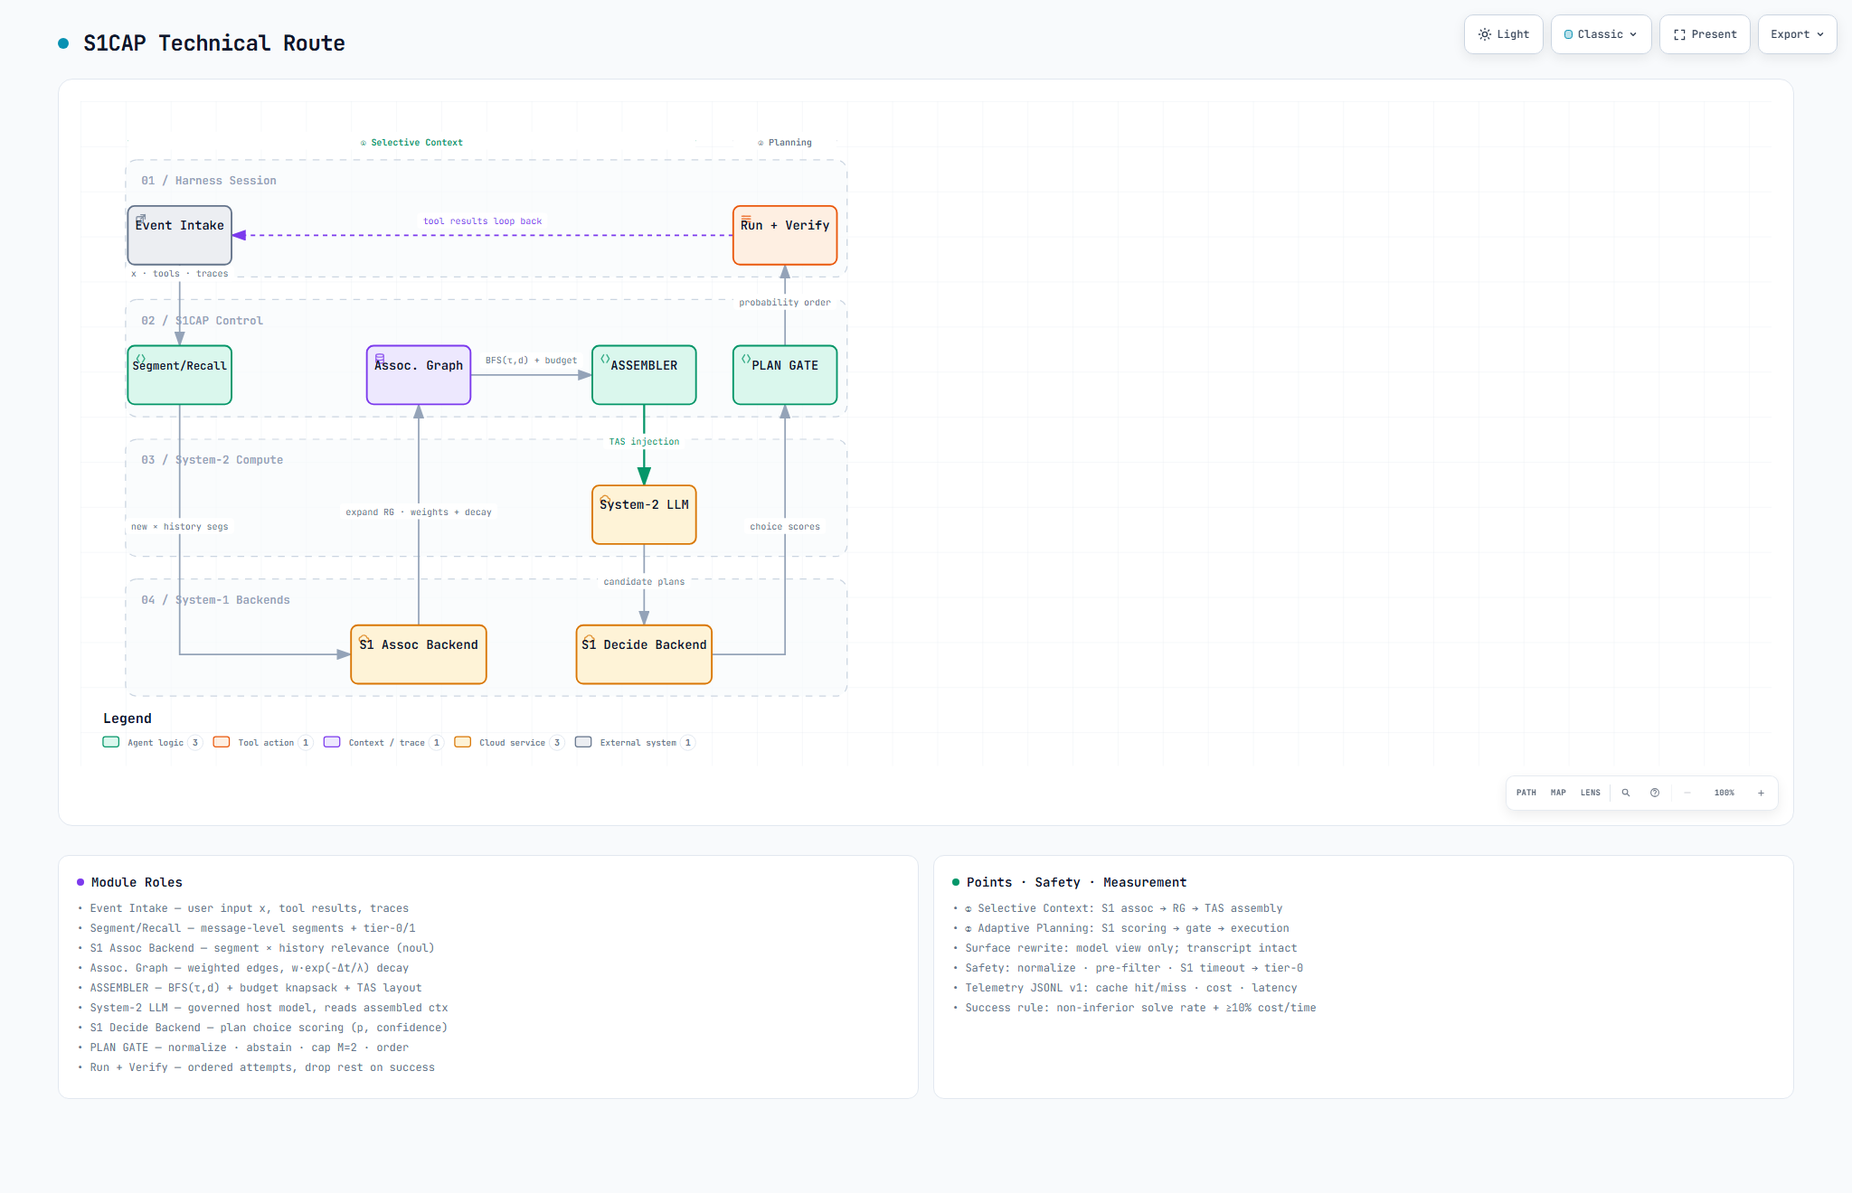
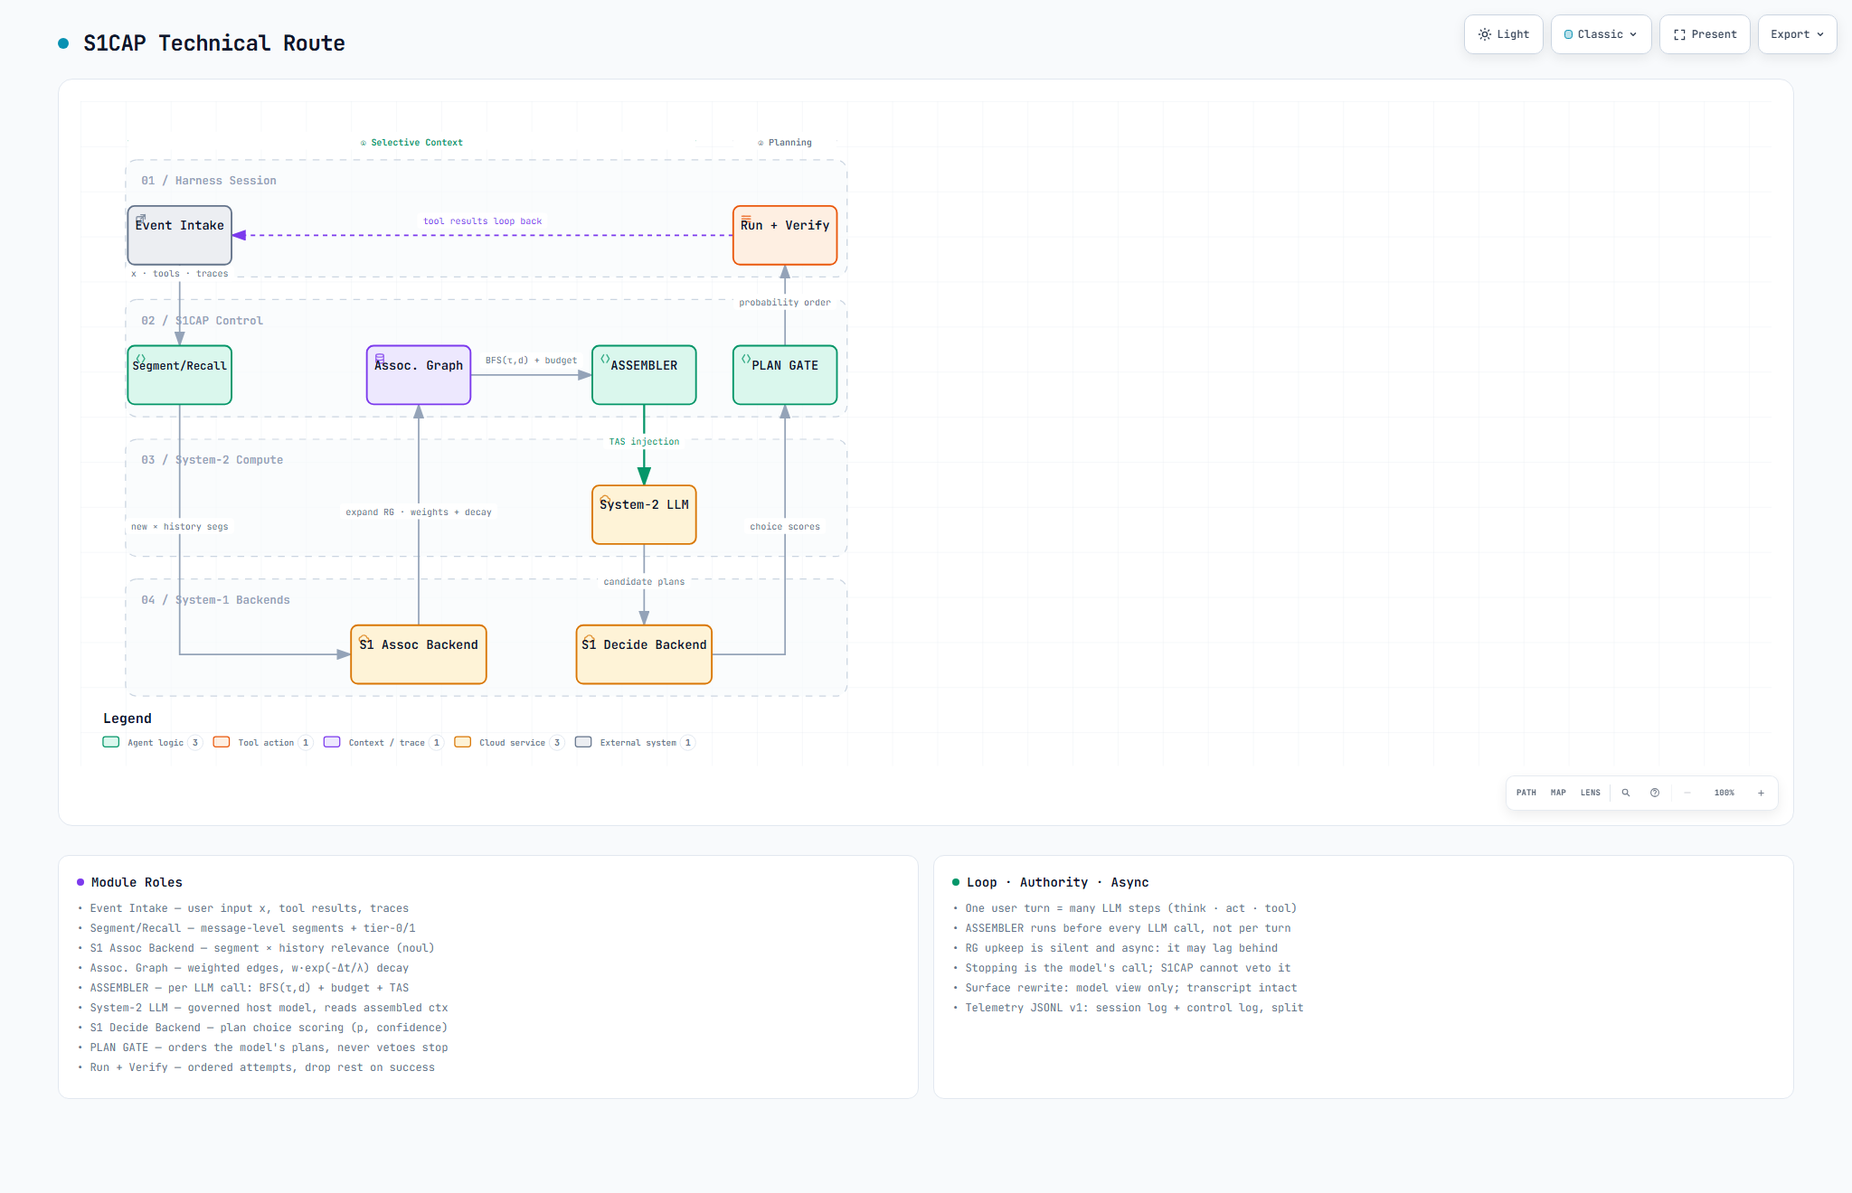
docs(diagram): model the agent loop as a loop with a hook, not a chain
The route diagram now separates three things that the previous serial reading blurred:
- one user turn = many LLM steps, so ASSEMBLER runs before EVERY LLM call (per-call hook)
- RG upkeep is asynchronous and may lag (dashed off-path edges), while the assembly read is
  synchronous and bounded by assemblyDeadlineMs
- stopping belongs to the model: no S1CAP output can prolong or veto the exit

- docs/figures/s1cap-technical-route.mmd rewritten as the canonical topology; the same Mermaid
  is embedded in README.md, docs/ARCHITECTURE.md and docs/AGENT_BRIEF.md
- docs/ARCHITECTURE.md gains section 6 (loop, authority, asynchrony)
- AGENT_BRIEF ground rule 7; AssemblyPolicy gains literal-typed invariants (termination:
  'model-owned', rgMaintenance: { mode: 'async', maxLagTurns }) plus assemblyDeadlineMs, and
  AttemptController gains stop() so the harness registers a model stop without asking S1CAP
- new tests (44/44): gate cannot invent plans, empty plan list stays empty, controller stops at
  the cap / at the end of the model list / on a model stop; policy literals hold in every cell
- archify artifact re-delivered with corrected cards (Loop · Authority · Async, PLAN GATE now
  reads 'orders the model's plans, never vetoes stop'): 9/9 checks, 0 errors, visual-check pass

Note: the delivered SVG could not yet carry the loop topology itself - six layout variants were
rejected by the showcase geometry checks (endpoint-side direction, micro-segments, label
[…]

diff --git a/packages/core/test/authority.test.ts b/packages/core/test/authority.test.ts
@@ -1,0 +1,74 @@
+import test from 'node:test';
+import assert from 'node:assert/strict';
+
+import { cellPolicy, defaultPolicy } from '../src/types.ts';
+import type { Cell } from '../src/types.ts';
+import { AttemptController, orderPlans } from '../src/plan-gate.ts';
+
+const CELLS: Cell[] = ['C1', 'C2', 'C3', 'C4'];
+
+test('the loop is model-owned and the hook is bounded, in every cell (policy literals)', () => {
+  const p = defaultPolicy();
+  assert.equal(p.termination, 'model-owned');
+  assert.equal(p.rgMaintenance.mode, 'async');
+  assert.ok(p.assemblyDeadlineMs > 0 && p.assemblyDeadlineMs <= 2000, 'the sync hook needs a hard deadline');
+
+  for (const cell of CELLS) {
+    const cp = cellPolicy(cell);
+    assert.equal(cp.termination, 'model-owned', `${cell}: S1CAP never owns termination`);
+    assert.equal(cp.rgMaintenance.mode, 'async', `${cell}: graph upkeep stays off the critical path`);
+    assert.ok(cp.rgMaintenance.maxLagTurns >= 0);
+  }
+});
+
+test('the gate never invents a plan: an empty model plan list stays empty', () => {
+  const decision = orderPlans([], [], 0.5);
+  assert.deepEqual(decision.order, []);
+  assert.equal(decision.abstained, true, 'nothing to order means: keep the model order (nothing)');
+});
+
+test('the gate only reorders what the model produced', () => {
+  const plans = [{ id: 'a' }, { id: 'b' }, { id: 'c' }];
+  const decision = orderPlans(
+    plans,
+    [
+      { id: 'b', prob: 0.7, confidence: 0.8 },
+      { id: 'a', prob: 0.2, confidence: 0.8 },
+      { id: 'c', prob: 0.1, confidence: 0.8 },
+    ],
+    0.5,
+  );
+  assert.deepEqual([...decision.order].sort(), ['a', 'b', 'c']);
+  assert.equal(decision.order[0], 'b');
+});
+
+test('the attempt controller stops at the cap, at the end of the model list, or on a model stop', () => {
+  const capped = new AttemptController(['a', 'b', 'c'], 2);
+  assert.equal(capped.next(), 'a');
+  capped.record('a', false);
+  assert.equal(capped.next(), 'b');
+  capped.record('b', false);
+  assert.equal(capped.next(), undefined, 'cap reached — the gate hands out nothing more');
+  assert.equal(capped.attempts, 2);
+  assert.deepEqual(capped.unexecuted(), ['c']);
+
+  const exhausted = new AttemptController(['a'], 5);
+  assert.equal(exhausted.next(), 'a');
+  exhausted.record('a', false);
+  assert.equal(exhausted.next(), undefined, 'the model offered one plan; S1CAP has nothing to add');
+
+  const empty = new AttemptController([], 3);
+  assert.equal(empty.next(), undefined);
+
+  const stopped = new AttemptController(['a', 'b'], 2);
+  stopped.stop();
+  assert.equal(stopped.next(), undefined, "the model's stop outranks remaining plans");
+  assert.deepEqual(stopped.unexecuted(), ['a', 'b']);
+
+  const won = new AttemptController(['a', 'b'], 2);
+  assert.equal(won.next(), 'a');
+  won.record('a', true);
+  assert.equal(won.next(), undefined, 'success ends the loop');
+  assert.equal(won.succeeded, 'a');
+  assert.deepEqual(won.unexecuted(), ['b']);
+});

diff --git a/docs/figures/s1cap-technical-route.html b/docs/figures/s1cap-technical-route.html
@@ -5418,10 +5418,10 @@
           <li>&bull; Segment/Recall — message-level segments + tier-0/1</li>
           <li>&bull; S1 Assoc Backend — segment × history relevance (noul)</li>
           <li>&bull; Assoc. Graph — weighted edges, w·exp(−Δt/λ) decay</li>
-          <li>&bull; ASSEMBLER — BFS(τ,d) + budget knapsack + TAS layout</li>
+          <li>&bull; ASSEMBLER — per LLM call: BFS(τ,d) + budget + TAS</li>
           <li>&bull; System-2 LLM — governed host model, reads assembled ctx</li>
           <li>&bull; S1 Decide Backend — plan choice scoring (p, confidence)</li>
-          <li>&bull; PLAN GATE — normalize · abstain · cap M=2 · order</li>
+          <li>&bull; PLAN GATE — orders the model&#39;s plans, never vetoes stop</li>
           <li>&bull; Run + Verify — ordered attempts, drop rest on success</li>
         </ul>
       </div>
@@ -5429,15 +5429,15 @@
       <div class="card">
         <div class="card-header">
           <div class="card-dot emerald"></div>
-          <h3>Points · Safety · Measurement</h3>
+          <h3>Loop · Authority · Async</h3>
         </div>
         <ul>
-          <li>&bull; ① Selective Context: S1 assoc → RG → TAS assembly</li>
-          <li>&bull; ② Adaptive Planning: S1 scoring → gate → execution</li>
+          <li>&bull; One user turn = many LLM steps (think · act · tool)</li>
+          <li>&bull; ASSEMBLER runs before every LLM call, not per turn</li>
+          <li>&bull; RG upkeep is silent and async: it may lag behind</li>
+          <li>&bull; Stopping is the model&#39;s call; S1CAP cannot veto it</li>
           <li>&bull; Surface rewrite: model view only; transcript intact</li>
-          <li>&bull; Safety: normalize · pre-filter · S1 timeout → tier-0</li>
-          <li>&bull; Telemetry JSONL v1: cache hit/miss · cost · latency</li>
-          <li>&bull; Success rule: non-inferior solve rate + ≥10% cost/time</li>
+          <li>&bull; Telemetry JSONL v1: session log + control log, split</li>
         </ul>
       </div>
     </div>

diff --git a/packages/core/src/types.ts b/packages/core/src/types.ts
@@ -51,6 +51,21 @@ export type S1ProviderName = 'jev' | 'laya-serve' | 'edgejev' | 'kev' | 'none';
 
 export interface AssemblyPolicy {
   cell: Cell;
+  /**
+   * Who owns the agent loop. Deliberately a literal type, not a boolean: the harness
+   * stops when the model stops, and no S1CAP output may prolong or veto that exit
+   * (docs/ARCHITECTURE.md §4). One user turn is many LLM steps; S1CAP only assembles
+   * the context before each call and orders the plans the model already offered.
+   */
+  termination: 'model-owned';
+  /** hard deadline for the synchronous per-call assembly hook; on expiry the call passes through unmodified */
+  assemblyDeadlineMs: number;
+  /**
+   * Association-graph upkeep is asynchronous: new session events are scored off the
+   * critical path by the S1 association backend and merged into the graph afterwards,
+   * so the graph may lag the session by up to `maxLagTurns` turns.
+   */
+  rgMaintenance: { mode: 'async'; maxLagTurns: number };
   tas: {
     on: boolean;
     /** max chars of the serialized state proxy T */
@@ -138,6 +153,9 @@ export interface PlanGateDecision {
 export function defaultPolicy(): AssemblyPolicy {
   return {
     cell: 'C4',
+    termination: 'model-owned',
+    assemblyDeadlineMs: 250,
+    rgMaintenance: { mode: 'async', maxLagTurns: 2 },
     tas: { on: true, tMaxChars: 8000, updatePolicy: 'perTask' },
     recall: {
       tau: 0.55,

diff --git a/packages/core/src/plan-gate.ts b/packages/core/src/plan-gate.ts
@@ -57,6 +57,11 @@ export function orderPlans(
 /**
  * Attempt controller: execute plans in order, verify each, stop on first success
  * or when the attempt cap M is reached.
+ *
+ * Authority note (docs/ARCHITECTURE.md §4): this controller only ever walks the plans the
+ * model produced. It cannot invent a plan, cannot exceed the cap, and cannot keep the loop
+ * alive — the harness stops the turn whenever the model says so, and `stop()` exists so the
+ * harness can register that decision without asking S1CAP.
  */
 export class AttemptController {
   #order: string[];
@@ -89,6 +94,14 @@ export class AttemptController {
       this.#succeeded = id;
       this.#stopped = true;
     }
+  }
+
+  /**
+   * The model (or the harness on its behalf) ended the turn. Recorded here so the gate
+   * cannot hand out another attempt; S1CAP never decides this and never delays it.
+   */
+  stop(): void {
+    this.#stopped = true;
   }
 
   get attempts(): number {

diff --git a/docs/ARCHITECTURE.md b/docs/ARCHITECTURE.md
@@ -13,20 +13,20 @@ Status legend: **✅ implemented (M0)** · **🔜 planned (M1/M2)** · **◻ ext
 
 ```mermaid
 flowchart LR
-  subgraph HAR["Harness session layer"]
-    XEV["Event intake<br/>user input x · tool results · reasoning traces"]
-    EXE["Run + verify<br/>ordered attempts, verification oracle"]
+  subgraph HAR["Harness session - one user turn = many LLM steps"]
+    X["User turn x<br/>user input · tool results · traces"]
+    TL["Run + verify<br/>tool exec · results · verification"]
+    ST["Stop - the model's own call<br/>S1CAP cannot veto or prolong it"]
   end
 
-  subgraph CTL["S1CAP control layer"]
-    SEG["Segment / Recall<br/>message-level segments, tier-0/1 candidates"]
-    RG["Association graph (RG)<br/>weighted edges, w·exp(-Δt/λ) decay"]
-    ASM["ASSEMBLER<br/>BFS(τ,d) recall + budget knapsack + TAS layout"]
-    GATE["PLAN GATE<br/>normalize · abstain · attempt cap M=2 · order"]
+  subgraph CTL["S1CAP control - hook, advisory"]
+    ASM["ASSEMBLER<br/>runs before every LLM call"]
+    RG["Association graph RG<br/>weights w·exp(-dt/lambda)"]
+    GATE["PLAN GATE<br/>orders plans the model gave"]
   end
 
   subgraph S2["System-2 compute plane"]
-    LLM["System-2 LLM<br/>governed host model (deepseek-flash)"]
+    LLM["System-2 LLM step<br/>think · act · call tools"]
   end
 
   subgraph S1["System-1 backends (POST /v1/systemone)"]
@@ -34,15 +34,17 @@ flowchart LR
     S1D["S1 decision backend<br/>choice scoring"]
   end
 
-  XEV -->|"x · tools · traces"| SEG
-  SEG -->|"new × history segments"| S1A
-  S1A -->|"expand RG · weights + decay"| RG
-  RG -->|"BFS(τ,d) + budget"| ASM
-  ASM -->|"TAS injection"| LLM
-  LLM -->|"candidate plans (m ≤ 3)"| S1D
-  S1D -->|"choice scores: p, confidence"| GATE
-  GATE -->|"probability order"| EXE
-  EXE -->|"tool results loop back"| XEV
+  X -->|"input x"| ASM
+  ASM -->|"assembled view (TAS) · per call"| LLM
+  LLM -->|"act · tool call"| TL
+  TL -.->|"next LLM step · model continues"| ASM
+  TL -->|"model stops"| ST
+  TL -.->|"new events · async tap, off the critical path"| S1A
+  S1A -.->|"weights + decay (may lag)"| RG
+  RG -->|"bounded recall + budget"| ASM
+  LLM -->|"candidate plans (when offered)"| S1D
+  S1D -->|"choice scores"| GATE
+  GATE -->|"advisory order · never vetoes stop"| TL
 ```
 
 ## 2. Connections (edge semantics)
@@ -89,5 +91,28 @@ flowchart LR
 | ASSEMBLER (TAS layout) | off (chronological) | **on** | off (chronological) | **on** |
 | S1 decision + PLAN GATE | off | off | **on** | **on** |
 | Telemetry | on | on | on | on |
+
+## 6. Loop, authority and asynchrony
+
+The diagram is a **loop with a hook**, not a serial pipeline. Three properties are part of the design and
+are enforced in code, not left to convention:
+
+1. **One user turn is many LLM steps.** The model thinks, acts, calls tools and continues as long as it
+   decides to. Consequently the ASSEMBLER runs **before every LLM call** (a per-call hook), not once per
+   turn, and the `Run + verify → ASSEMBLER` edge is the live loop edge (`next LLM step · model continues`).
+2. **Stopping belongs to the model.** The harness ends the turn when the model says so; `Stop · the model's
+   own call` is a harness node that no S1CAP output can veto or delay. The two guarantees in code:
+   `AssemblyPolicy.termination` is the literal type `'model-owned'` (there is no configuration that flips it),
+   and `AttemptController` walks only the plans the model produced — it cannot invent a plan, cannot exceed
+   the attempt cap, and `stop()` exists so the harness can register the model's decision without asking S1CAP.
+   An empty plan list yields an empty order.
+3. **Graph upkeep is asynchronous.** New session events are scored by the S1 association backend **off the
+   critical path** and merged into the RG afterwards (dashed edges `new events · async tap` and
+   `weights + decay (may lag)`); `rgMaintenance = { mode: 'async', maxLagTurns }`. The synchronous part is
+   only the assembly read (`bounded recall + budget`) and it carries a hard deadline:
+   `assemblyDeadlineMs` — on expiry the LLM call proceeds with the unmodified context instead of waiting.
+
+Degradation is therefore total: if Laya/Jev is slow, absent or wrong, the turn continues on the native path
+(tier-0 metadata + recency window), which is exactly the C1 behaviour the ablation compares against.
 
 Cell presets: `bench/cells/C{1..4}.json`.

diff --git a/docs/AGENT_BRIEF.md b/docs/AGENT_BRIEF.md
@@ -15,6 +15,7 @@
 4. The human owns the research decisions listed in §12. All other implementation decisions within this spec are yours.
 5. Telemetry schemas (§8) are **versioned contracts**: after the first benchmark run starts, changing a field name breaks comparability — add fields, never rename.
 6. **Control-plane isolation is a hard architectural rule** (docs/CONTROL_PLANE_LOGGING.md): System-1 calls, their telemetry and the backend's server logs go to a log stream that is *independent of the session event log*. No control-plane record may become a segment, enter the association graph, or appear in any LLM context or System-1 `state` — otherwise System-1 would end up scoring its own output and call count would compound per turn. Enforced in `packages/core/src/provenance.ts` (type families + runtime guards); do not relax it for convenience.
+7. **The agent loop is model-owned and S1CAP is only a hook** (docs/ARCHITECTURE.md §6). One user turn is *many* LLM steps (think → act → tool → …), so the flow is a loop, not a chain: S1CAP assembles context before **every** LLM call under a hard deadline (on expiry the call proceeds unmodified), and maintains the association graph **asynchronously, off the critical path** (the graph may lag the session). Nothing in S1CAP may keep the loop alive: the harness stops when the model stops, the plan gate only reorders the plans the model already produced, and any S1CAP failure or timeout degrades to passthrough. `termination: 'model-owned'` and `rgMaintenance.mode: 'async'` are literal types in `AssemblyPolicy` — not toggles.
 
 ---
 
@@ -100,20 +101,20 @@ Two planes:
 
 ```mermaid
 flowchart LR
-  subgraph HAR["Harness session layer"]
-    XEV["Event intake<br/>user input x · tool results · reasoning traces"]
-    EXE["Run + verify<br/>ordered attempts, verification oracle"]
+  subgraph HAR["Harness session - one user turn = many LLM steps"]
+    X["User turn x<br/>user input · tool results · traces"]
+    TL["Run + verify<br/>tool exec · results · verification"]
+    ST["Stop - the model's own call<br/>S1CAP cannot veto or prolong it"]
   end
 
-  subgraph CTL["S1CAP control layer"]
-    SEG["Segment / Recall<br/>message-level segments, tier-0/1 candidates"]
-    RG["Association graph (RG)<br/>weighted edges, w·exp(-Δt/λ) decay"]
-    ASM["ASSEMBLER<br/>BFS(τ,d) recall + budget knapsack + TAS layout"]
-    GATE["PLAN GATE<br/>normalize · abstain · attempt cap M=2 · order"]
+  subgraph CTL["S1CAP control - hook, advisory"]
+    ASM["ASSEMBLER<br/>runs before every LLM call"]
+    RG["Association graph RG<br/>weights w·exp(-dt/lambda)"]
+    GATE["PLAN GATE<br/>orders plans the model gave"]
   end
 
   subgraph S2["System-2 compute plane"]
-    LLM["System-2 LLM<br/>governed host model (deepseek-flash)"]
+    LLM["System-2 LLM step<br/>think · act · call tools"]
   end
 
   subgraph S1["System-1 backends (POST /v1/systemone)"]
@@ -121,15 +122,17 @@ flowchart LR
     S1D["S1 decision backend<br/>choice scoring"]
   end
 
-  XEV -->|"x · tools · traces"| SEG
-  SEG -->|"new x history segments"| S1A
-  S1A -->|"expand RG · weights + decay"| RG
-  RG -->|"BFS(tau,d) + budget"| ASM
-  ASM -->|"TAS injection"| LLM
-  LLM -->|"candidate plans (m <= 3)"| S1D
-  S1D -->|"choice scores: p, confidence"| GATE
-  GATE -->|"probability order"| EXE
-  EXE -->|"tool results loop back"| XEV
+  X -->|"input x"| ASM
+  ASM -->|"assembled view (TAS) · per call"| LLM
+  LLM -->|"act · tool call"| TL
+  TL -.->|"next LLM step · model continues"| ASM
+  TL -->|"model stops"| ST
+  TL -.->|"new events · async tap, off the critical path"| S1A
+  S1A -.->|"weights + decay (may lag)"| RG
+  RG -->|"bounded recall + budget"| ASM
+  LLM -->|"candidate plans (when offered)"| S1D
+  S1D -->|"choice scores"| GATE
+  GATE -->|"advisory order · never vetoes stop"| TL
 ```
 - **Event intake:** the harness adapter turns session events (user input x, tool results, reasoning traces) into `RawEvent`s and writes the assembled context back to the **model view only** (§5.1, §6).
 - **Segment / Recall:** message-level segments (never token-level, per the project's segmentation rule) + two-tier candidate generation — tier-0 metadata (free, always on) and tier-1 (embedding ANN *or* S1 noul batch, config-selected).

diff --git a/README.md b/README.md
@@ -27,20 +27,20 @@ Everything is **measured, not assumed**: solve rate, token cost split by prompt-
 
 ```mermaid
 flowchart LR
-  subgraph HAR["Harness session layer"]
-    XEV["Event intake<br/>user input x · tool results · reasoning traces"]
-    EXE["Run + verify<br/>ordered attempts, verification oracle"]
+  subgraph HAR["Harness session - one user turn = many LLM steps"]
+    X["User turn x<br/>user input · tool results · traces"]
+    TL["Run + verify<br/>tool exec · results · verification"]
+    ST["Stop - the model's own call<br/>S1CAP cannot veto or prolong it"]
   end
 
-  subgraph CTL["S1CAP control layer"]
-    SEG["Segment / Recall<br/>message-level segments, tier-0/1 candidates"]
-    RG["Association graph (RG)<br/>weighted edges, w·exp(-Δt/λ) decay"]
-    ASM["ASSEMBLER<br/>BFS(τ,d) recall + budget knapsack + TAS layout"]
-    GATE["PLAN GATE<br/>normalize · abstain · attempt cap M=2 · order"]
+  subgraph CTL["S1CAP control - hook, advisory"]
+    ASM["ASSEMBLER<br/>runs before every LLM call"]
+    RG["Association graph RG<br/>weights w·exp(-dt/lambda)"]
+    GATE["PLAN GATE<br/>orders plans the model gave"]
   end
 
   subgraph S2["System-2 compute plane"]
-    LLM["System-2 LLM<br/>governed host model (deepseek-flash)"]
+    LLM["System-2 LLM step<br/>think · act · call tools"]
   end
 
   subgraph S1["System-1 backends (POST /v1/systemone)"]
@@ -48,15 +48,17 @@ flowchart LR
     S1D["S1 decision backend<br/>choice scoring"]
   end
 
-  XEV -->|"x · tools · traces"| SEG
-  SEG -->|"new x history segments"| S1A
-  S1A -->|"expand RG · weights + decay"| RG
-  RG -->|"BFS(tau,d) + budget"| ASM
-  ASM -->|"TAS injection"| LLM
-  LLM -->|"candidate plans (m <= 3)"| S1D
-  S1D -->|"choice scores: p, confidence"| GATE
-  GATE -->|"probability order"| EXE
-  EXE -->|"tool results loop back"| XEV
+  X -->|"input x"| ASM
+  ASM -->|"assembled view (TAS) · per call"| LLM
+  LLM -->|"act · tool call"| TL
+  TL -.->|"next LLM step · model continues"| ASM
+  TL -->|"model stops"| ST
+  TL -.->|"new events · async tap, off the critical path"| S1A
+  S1A -.->|"weights + decay (may lag)"| RG
+  RG -->|"bounded recall + budget"| ASM
+  LLM -->|"candidate plans (when offered)"| S1D
+  S1D -->|"choice scores"| GATE
+  GATE -->|"advisory order · never vetoes stop"| TL
 ```
 The user-facing transcript stays **strictly chronological**; only the model view is reassembled (native in DSH's session/surface split, replicated by the portable proxy elsewhere).
 
